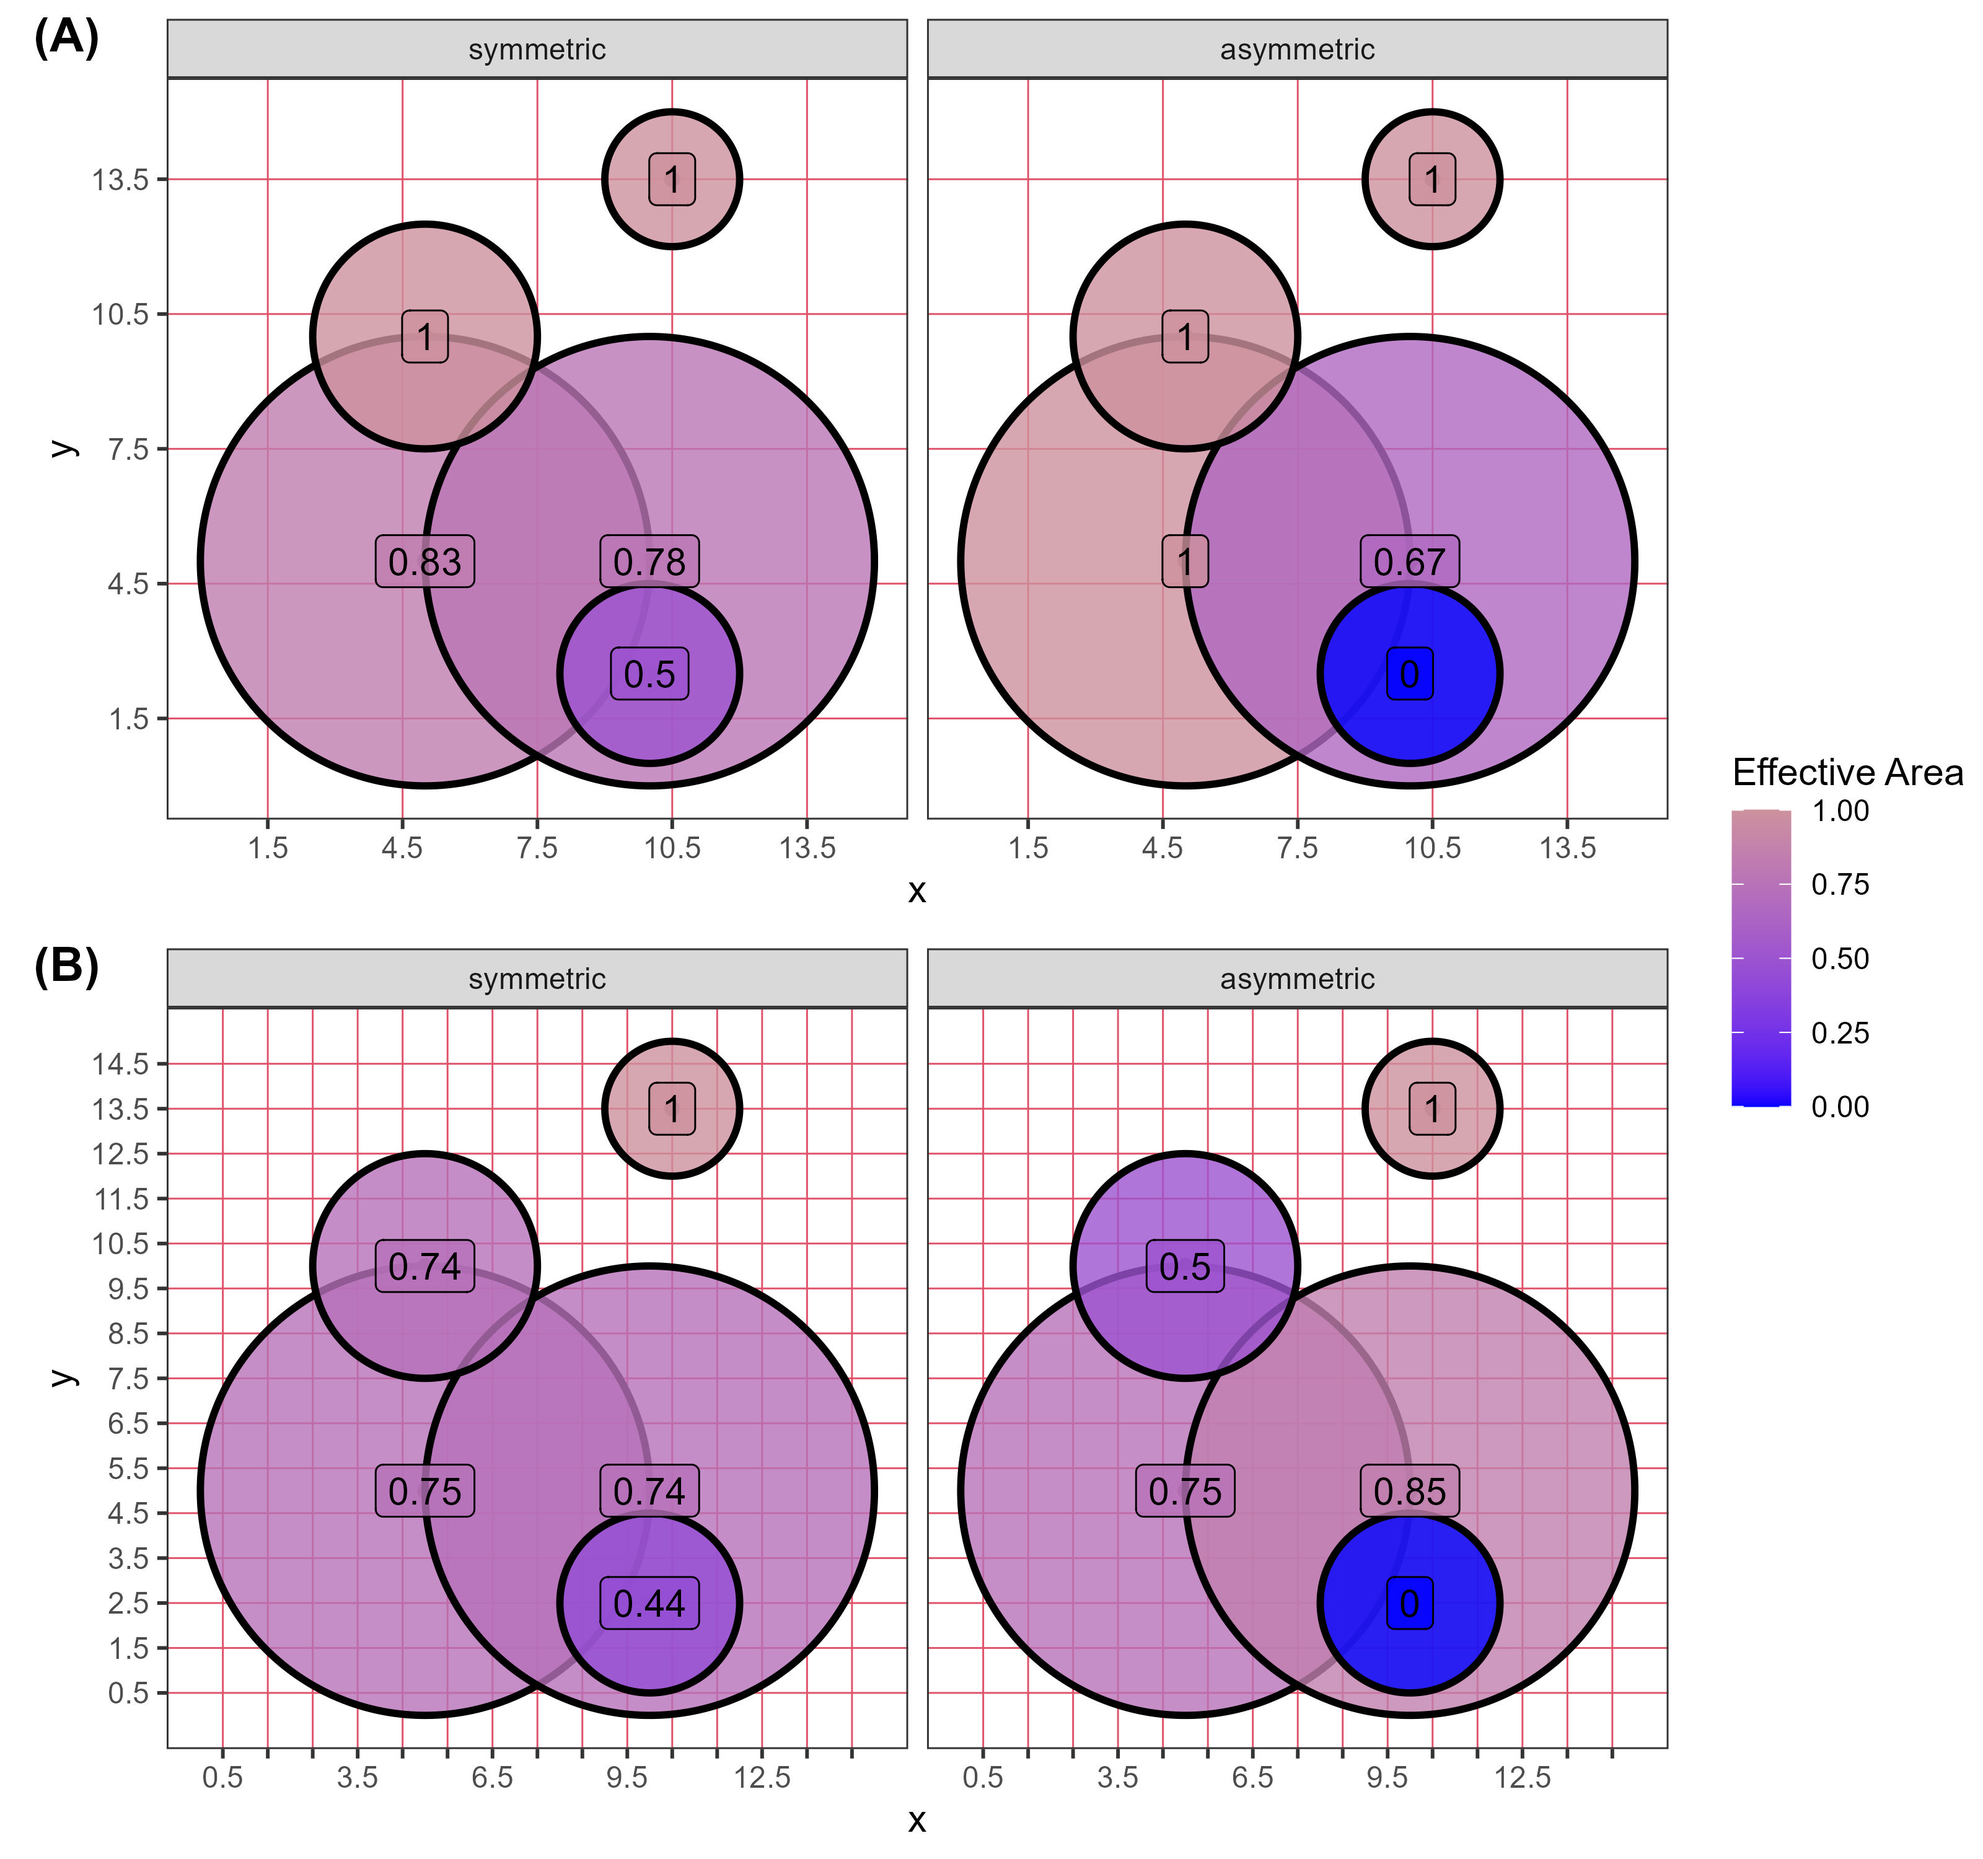
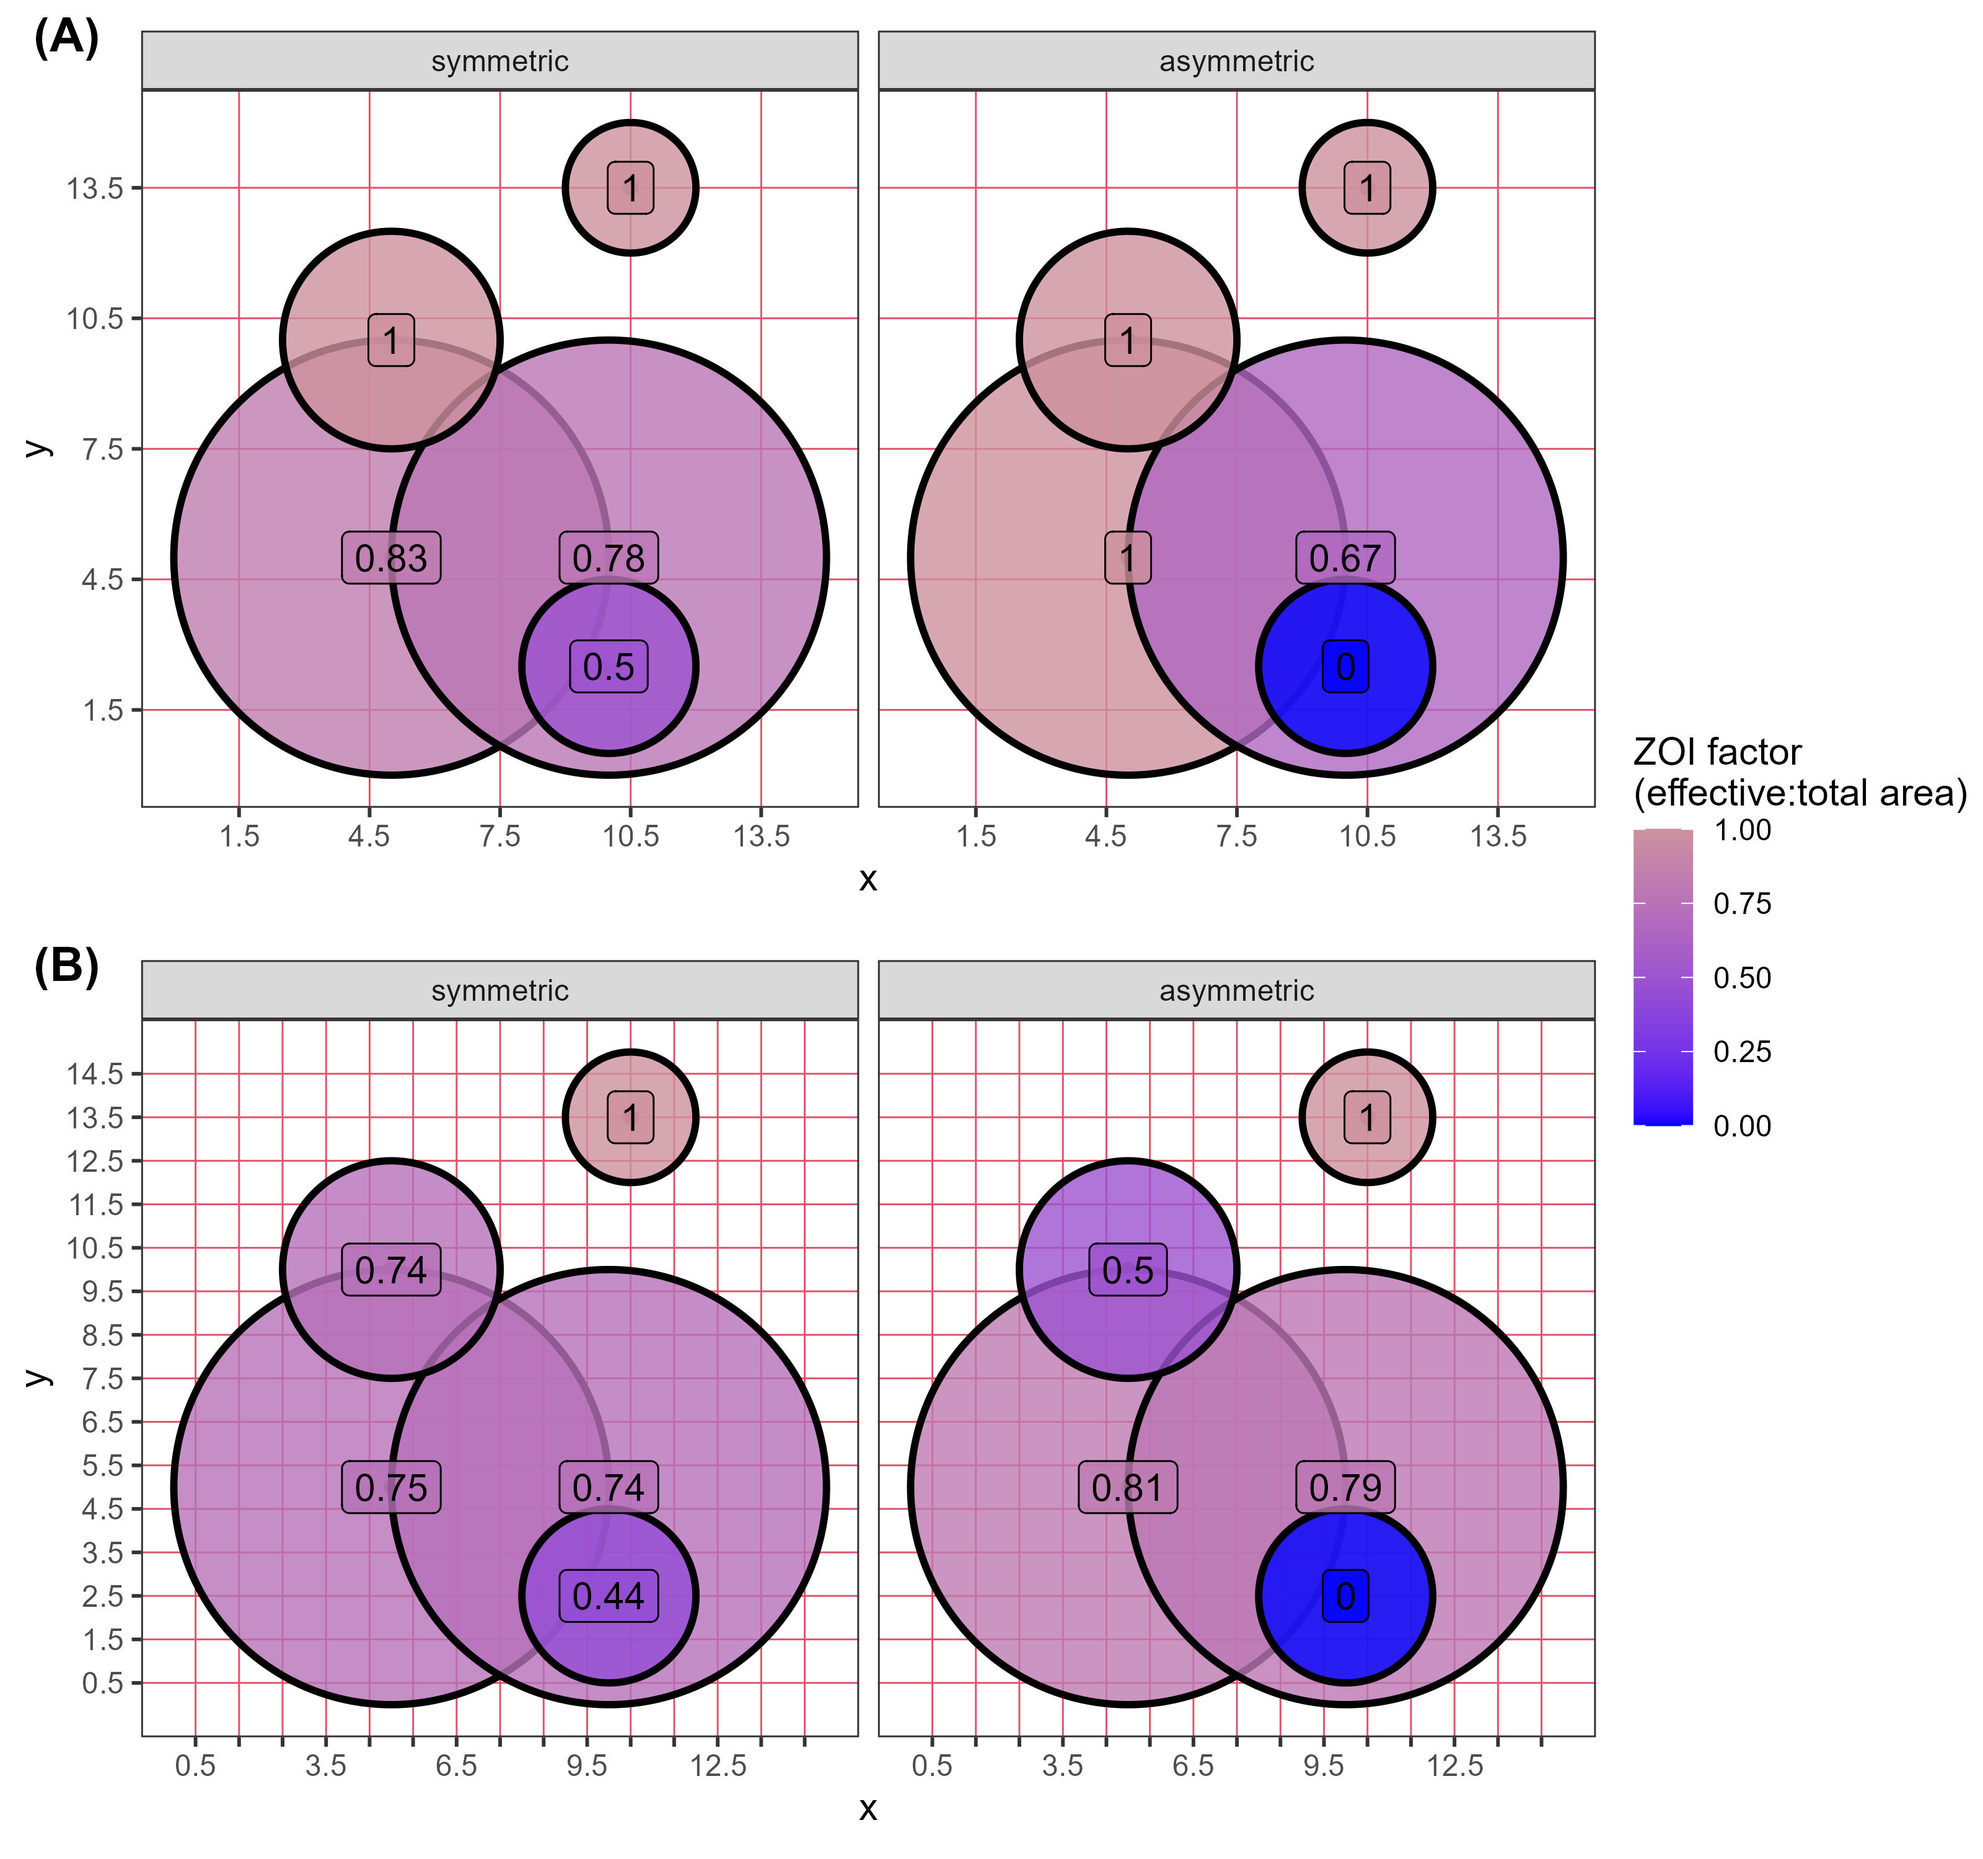
introduce zoi_factor + renaming in python benchmark

Changed region(s): [[0.0312, 0.0, 1.0, 0.961]]

diff --git a/python_rbb/Benchmark/run_benchmark.py b/python_rbb/Benchmark/run_benchmark.py
@@ -31,7 +31,9 @@ zoi.setEffectiveArea(positions=np.array(positions),
                      zoi_radii=radii)
 
 ef_area_1a = zoi.getEffectiveArea()
+zoi_factor_1a = zoi.getZOIfactor()
 print(ef_area_1a)
+print(zoi_factor_1a)
 
 # B) Initialize ZOI with asymmetric ZOI
 # and a low grid resolution
@@ -43,7 +45,9 @@ zoi.setEffectiveArea(positions=np.array(positions),
                      zoi_radii=radii)
 
 ef_area_1b = zoi.getEffectiveArea()
+zoi_factor_1b = zoi.getZOIfactor()
 print(ef_area_1b)
+print(zoi_factor_1b)
 
 # plot = Visualization("benchmark_B.txt")
 # plot.getZOIPlot(np.arange(1.5, 15, 3), np.arange(1.5, 15, 3), 'effective_area')
@@ -58,7 +62,10 @@ zoi.setEffectiveArea(positions=np.array(positions),
                      zoi_radii=radii)
 
 ef_area_1c = zoi.getEffectiveArea()
+zoi_factor_1c = zoi.getZOIfactor()
 print(ef_area_1c)
+print(zoi_factor_1c)
+
 
 # D) Initialize ZOI with asymmetric ZOI
 # and a high grid resolution
@@ -70,14 +77,19 @@ zoi.setEffectiveArea(positions=np.array(positions),
                      zoi_radii=radii)
 
 ef_area_1d = zoi.getEffectiveArea()
+zoi_factor_1d = zoi.getZOIfactor()
 print(ef_area_1d)
+print(zoi_factor_1d)
+
 
 # plot = Visualization("benchmark_D.txt")
 # plot.getZOIPlot(np.arange(0.5, 15, 1), np.arange(0.5, 15, 1))
 
-exit()
+#exit()
 # Write Output to file
 ef_area = [ef_area_1a, ef_area_1b, ef_area_1c, ef_area_1d]
+zoi_factor = [zoi_factor_1a, zoi_factor_1b, zoi_factor_1c, zoi_factor_1d]
+
 ef_lab = ["A", "B", "C", "D"]
 # output_file = open('setup_1_reference.txt', 'w')
 # output_file.write("setup, tree, x, y, zoi_radii, effective_area\n")
@@ -85,8 +97,8 @@ for i in range(4):
     filename = 'benchmark_' + str(ef_lab[i]) + '.txt'
     print(filename)
     output_file = open(filename, 'w')
-    output_file.write("setup, tree, x, y, zoi_radii, effective_area, timestep\n")
+    output_file.write("setup, tree, x, y, zoi_radii, zoi_factor, effective_area, timestep\n")
     for j in range(0, len(ef_area_1a)):
         string = ef_lab[i] + ", " + str(j) + ", " + str(positions['x'][j]) + ", " + str(positions['y'][j]) + ", " + \
-                 str(radii[j]) + ", " + str(ef_area[i][j]) + ", " + str(0) + "\n"
+                 str(radii[j]) + ", " + str(zoi_factor[i][j]) + ", " + str(ef_area[i][j]) + ", " + str(0) + "\n"
         output_file.write(string)

diff --git a/python_rbb/zoi.py b/python_rbb/zoi.py
@@ -5,6 +5,7 @@ import random
 class ZoneOfInfluence:
     def __init__(self, l_x, l_y, r_x, r_y, type="sym"):
         self.type = type
+        self.zoi_factor = None
         self.effective_area = None
         self.makeGrid(l_x, l_y, r_x, r_y)
         print("Initialize ZOI of type " + self.type)
@@ -52,6 +53,8 @@ class ZoneOfInfluence:
             print("ERROR: Selected ZOI type not available.\n")
             print("Available options: `sym`, `asym`")
 
+        self.effective_area = self.zoi_factor * np.pi * self.zoi_radii**2
+
     def calculateSymZoi(self):
         # Count all nodes, which are occupied by agents
         # returns array of shape [n_agents]
@@ -70,7 +73,7 @@ class ZoneOfInfluence:
             agents_wins[i] = np.sum(agents_present_reci[np.where(
                 self.agents_present[:, :, i])])
 
-        self.effective_area = agents_wins / agents_counts
+        self.zoi_factor = agents_wins / agents_counts
 
     def calculateAsymZoi(self):
         agents_counts = self.agents_present.sum(axis=(0, 1))
@@ -86,10 +89,11 @@ class ZoneOfInfluence:
                         bools = random.sample(pos_bools, 1)
                     agents_wins[bools] += 1
 
-        self.effective_area = agents_wins / agents_counts
+        self.zoi_factor = agents_wins / agents_counts
 
     def getEffectiveArea(self):
         return self.effective_area
 
-
+    def getZOIfactor(self):
+        return self.zoi_factor
 
